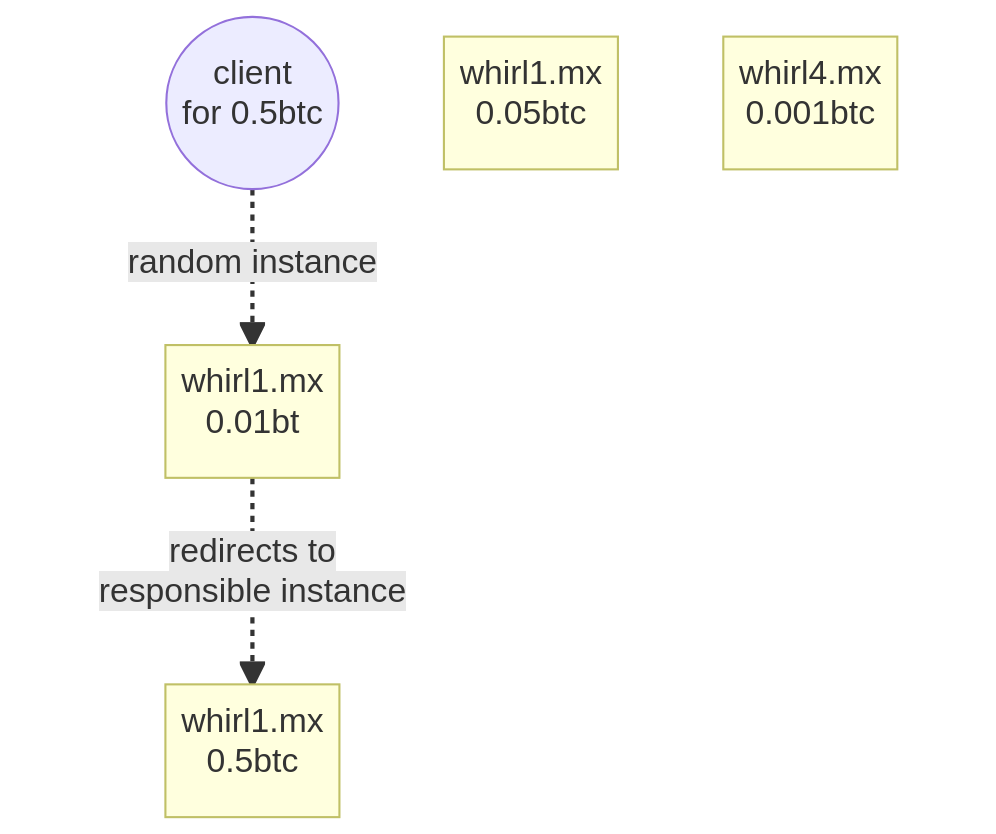
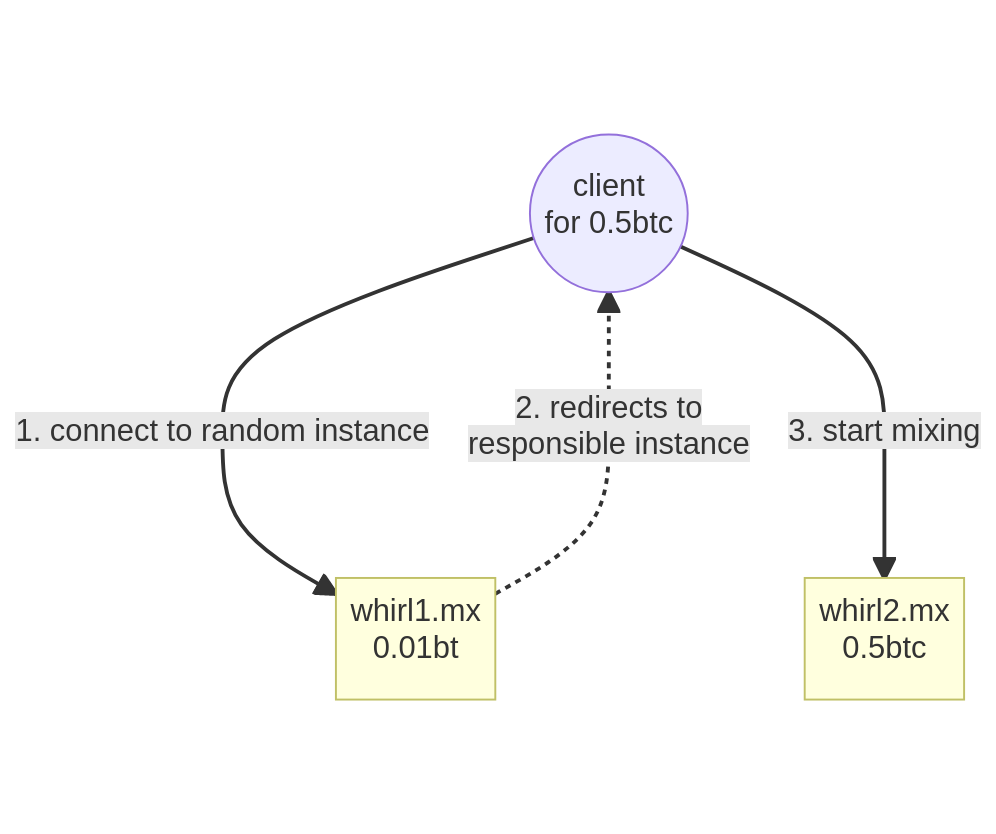
add dex proposal

diff --git a/feature-dex/README-whirlpool.md b/feature-dex/README-whirlpool.md
@@ -1,32 +1,53 @@
-# DECENTRALIZING WHIRLPOOL COORDINATOR
+# DECENTRALIZING WHIRLPOOL
 
 
-## I. Current architecture
-- 1 coordinator instance
-    * using a MySQL server (to store banned clients, mix history, postmix address reuse...)
-    * using a bitcoin node
-- coordinator URL is hardcoded into client: `pool.whirl.mx`
+## I. Proposal #1
 
-![](charts/current-architecture.png)
+### 1. Client registers  to Soroban
+- hardcoded bootstrap Soroban nodes on client side
+- client connects to a random node
+- client registers UTXO to mix on soroban  
+    `REGISTER_INPUT {poolId, utxoHash, utxoIndex, signature, liquidity}`
+![](charts/proposal1-client-soroban.png)
 
 
-Main issues:
-- censorship: slow to recover if pool.whirl.mx were blacklisted (would require updating all clients with new hardcoded address)
-- DDOS: single coordinator is an easy target
-- scaling: coordinator is handling growing whirlpool traffic (900+ websocket connexions)
-- mixing downtimes during coordinator upgrades
+### 2. Coordinator invites client for mixing
+- coordinator instance lists registered inputs from Soroban  
+    `LIST_INPUTS {poolId}`
+- coordinator instance invites utxos to mix  
+    `INVITE_INPUT {poolId, instanceIp}`
+- client starts mixing with coordinator instance as usual
+![](charts/proposal1-invite.png)
 
-Constraints for upgrading current architecture:
-- coordinator side:
-    * coordinator requires a centralized MYSQL database (for storing mix history, banned users, postmix address-reuse...)
-- client side: 
-    * keep changes as small as possible for client to make upgrade easier for whirlpool partners
-    * keep current mixing protocol unchanged
 
-    
-## II. Proposal
+### 3. TL;DR
+- need to implement Soroban + INVITE_INPUT on client side for each partner
+- slow to detect client disconnection
+- privacy: make utxos list private on Soroban?
 
-### 1. Coordinator side
+
+## II. Proposal #2
+### 1. Client connects as usual to random coordinator instance
+- hardcoded bootstrap coordinator nodes on client side
+- client connects to a random coordinator instance from the bootstrap list
+![](charts/proposal-client-connect.png)
+
+### 2. Coordinator instance redirects to appropriate instance
+- each coordinator instance is responsible of one mixing pool
+- if the random instance is not responsible of client's mixing pool, client gets redirected to the responsible instance
+- client connects to this instance and starts mixing as usual
+
+![](charts/proposal-client-redirect-simple.png)
+
+
+### 3. TL;DR
+- no need to implement Soroban on client side
+- no protocol upgrade (except instance redirection response)
+- need of coordinator synchronization (mysql, soroban, other?)
+
+## III. Coordinator decentralization
+
+### 1. Instances
 - spawn multiple coordinator instances (same config)
 - each intance has its own url clearnet + onion
 - each instance is connected to a shared mysql database:
@@ -34,7 +55,6 @@ Constraints for upgrading current architecture:
     * postmix address reuse protection across all instances
     * "status dashboard" shows all instances activity. The dashboard is accessible from any instance.
 ![](charts/proposal-coordinators.png)
-
 
 
 ### 2. Pools repartition
@@ -56,20 +76,7 @@ Constraints for upgrading current architecture:
 - synchronization is in real time by using the shared MySQL database
 
 
-### 3. Client side
-- client has an hardcoded bootstrap node list locally
-- client connects to a random instance from the bootstrap list
-![](charts/proposal-client-connect.png)
 
-- if the random instance is not responsible of client's mixing pool, client gets redirected to the responsible instance
-- client connects to this instance and starts mixing as usual
-
-![](charts/proposal-client-redirect-simple.png)
-
-
-### 4. Remarks
-- decentralization is 100% transparent to the client
-- no protocol upgrade (except instance redirection response)
+### 3. TL;DR
 - coordinator instances are synchronized in real-time with the shared MySQL database
-- no need to implement Soroban client for mixing
 

diff --git a/feature-dex/README.md b/feature-dex/README.md
@@ -2,10 +2,34 @@
 
 
 ## I. Current architecture
+
+### 1. Overview
 - URLs are hardcoded into Java librairies
 - single server per service
 ![](charts/current-architecture-global.png)
 
+
+### 2. Current Whirlpool architecture
+- 1 coordinator instance
+    * using a MySQL server (to store banned clients, mix history, postmix address reuse...)
+    * using a bitcoin node
+- coordinator URL is hardcoded into client: `pool.whirl.mx`
+
+![](charts/current-architecture.png)
+
+
+Main issues:
+- censorship: slow to recover if pool.whirl.mx were blacklisted (would require updating all clients with new hardcoded address)
+- DDOS: single coordinator is an easy target
+- scaling: coordinator is handling growing whirlpool traffic (900+ websocket connexions)
+- mixing downtimes during coordinator upgrades
+
+Constraints for upgrading current architecture:
+- coordinator side:
+    * coordinator requires a centralized MYSQL database (for storing mix history, banned users, postmix address-reuse...)
+- client side: 
+    * keep changes as small as possible for client to make upgrade easier for whirlpool partners
+    * keep current mixing protocol unchanged
 
 
 ## II. Decentralizing Whirlpool

diff --git a/feature-dex/charts/proposal-client-redirect-simple.md b/feature-dex/charts/proposal-client-redirect-simple.md
@@ -1,10 +1,9 @@
 flowchart TD
-client((client<br>for 0.5btc)) -.->|random instance| whirl1.mx[whirl1.mx<br>0.01bt]
-whirl2.mx[whirl1.mx<br>0.5btc]
-whirl3.mx[whirl1.mx<br>0.05btc]
-whirl4.mx[whirl4.mx<br>0.001btc]
+client((client<br>for 0.5btc)) --->|1. connect to random instance| whirl1.mx[whirl1.mx<br>0.01bt]
+whirl2.mx[whirl2.mx<br>0.5btc]
 
-whirl1.mx-.->|redirects to<br>responsible instance|whirl2.mx
+whirl1.mx-.->|2. redirects to<br>responsible instance|client
+client--->|3. start mixing| whirl2.mx
 
 classDef instance fill:#ffffde,stroke:#c0c066;
 class whirl1.mx instance;

diff --git a/feature-dex/charts/proposal1-invite.md b/feature-dex/charts/proposal1-invite.md
@@ -1,0 +1,22 @@
+flowchart TD
+
+
+subgraph soroban
+soroban1
+soroban2
+soroban3
+soroban4
+end
+
+subgraph coordinator
+whirl1.mx
+whirl2.mx
+whirl3.mx
+whirl1.mx
+end
+
+whirl1.mx --> |1. LIST_INPUTS| soroban
+whirl1.mx --> |2. INVITE_INPUT utxo1,utxo2| soroban
+soroban -.->|3. INVITE_INPUT utxo1| client1((client1))
+soroban -.->|3. INVITE_INPUT utxo2| client2((client2))
+

diff --git a/feature-dex/charts/proposal1-client-soroban.md b/feature-dex/charts/proposal1-client-soroban.md
@@ -1,0 +1,21 @@
+flowchart TD
+
+
+subgraph soroban
+soroban1
+soroban2
+soroban3
+soroban4
+end
+
+subgraph coordinator
+whirl1.mx
+whirl2.mx
+whirl3.mx
+whirl1.mx
+end
+
+whirl1.mx --> |1. LIST_INPUTS| soroban
+whirl1.mx --> |2. INVITE_INPUT utxo1| soroban
+soroban -.->|3. INVITE_INPUT utxo1| client1((client))
+client1 --> |4. START MIXING| whirl1.mx
